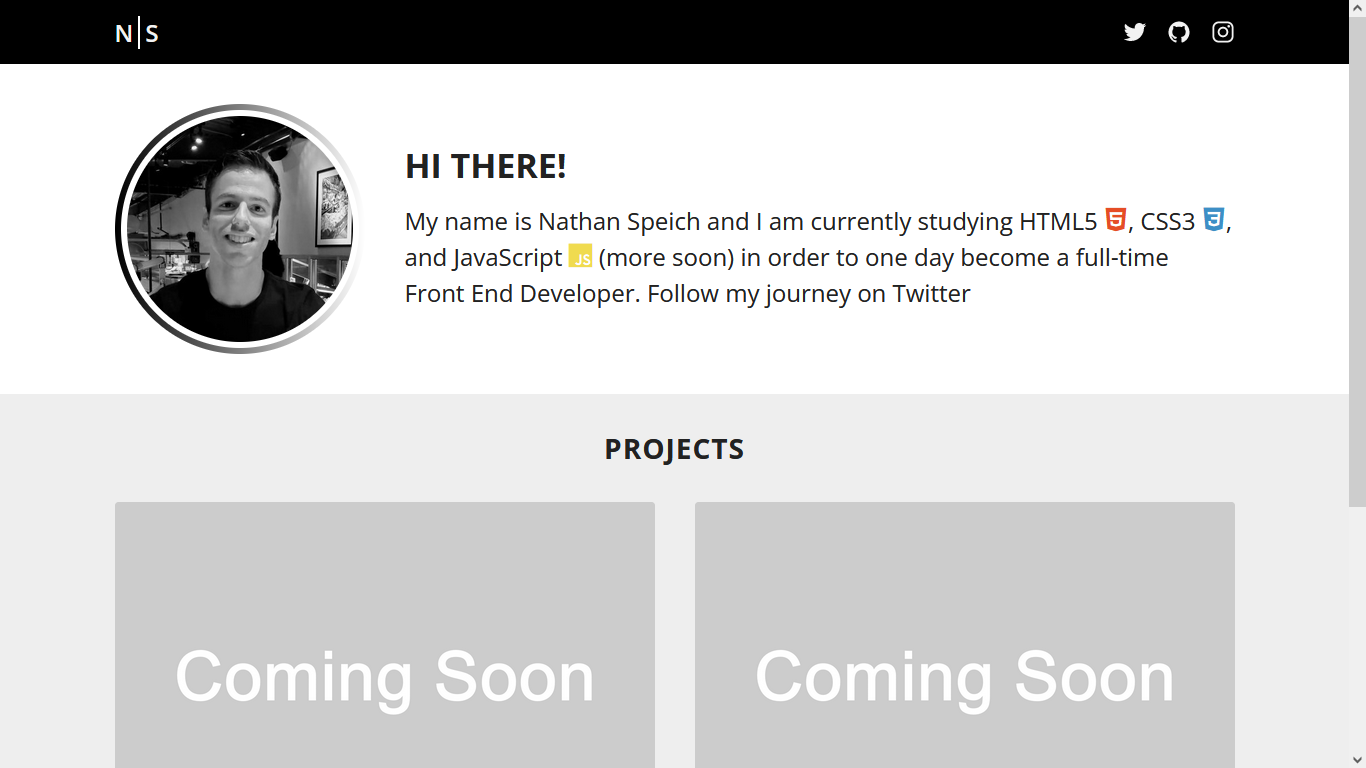
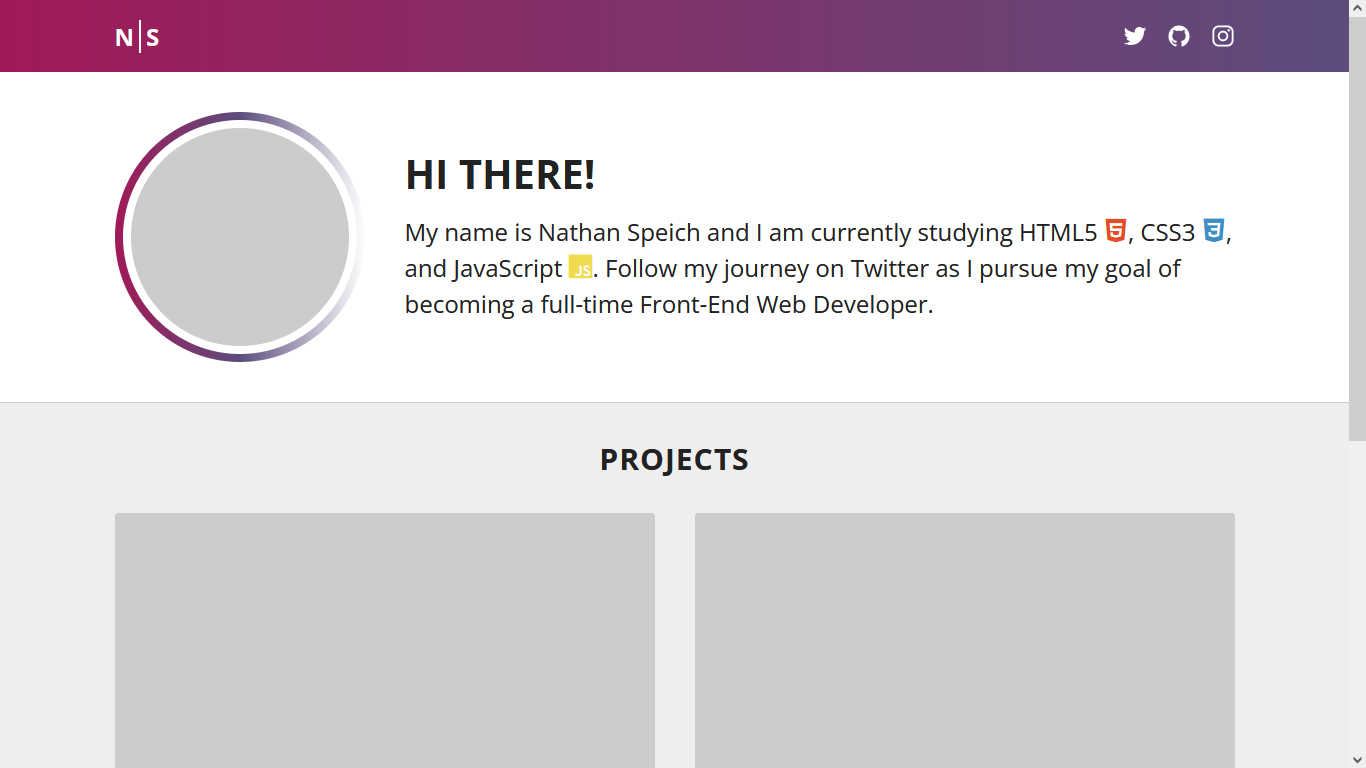
Updated Placeholder Images
Updated the placeholder images and about image.

diff --git a/index.html b/index.html
@@ -43,8 +43,7 @@
             <div class="container">
                 <div class="about-content gradient-border">
                     <div class="about-img-wrapper">
-                        <img class="about-img"
-                            src="https://pbs.twimg.com/profile_images/1505837349044994053/gSQQNjHD_400x400.jpg" alt="">
+                        <img class="about-img" src="img/profile-img.png" alt="">
                     </div>
                     <div class="about-text-box">
                         <h1 class="about-heading">Hi There!</h1>
